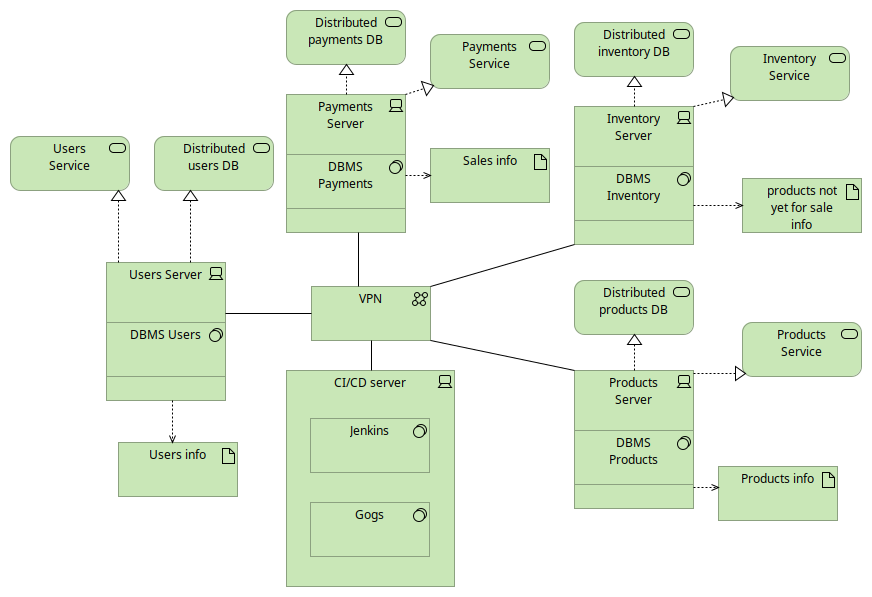
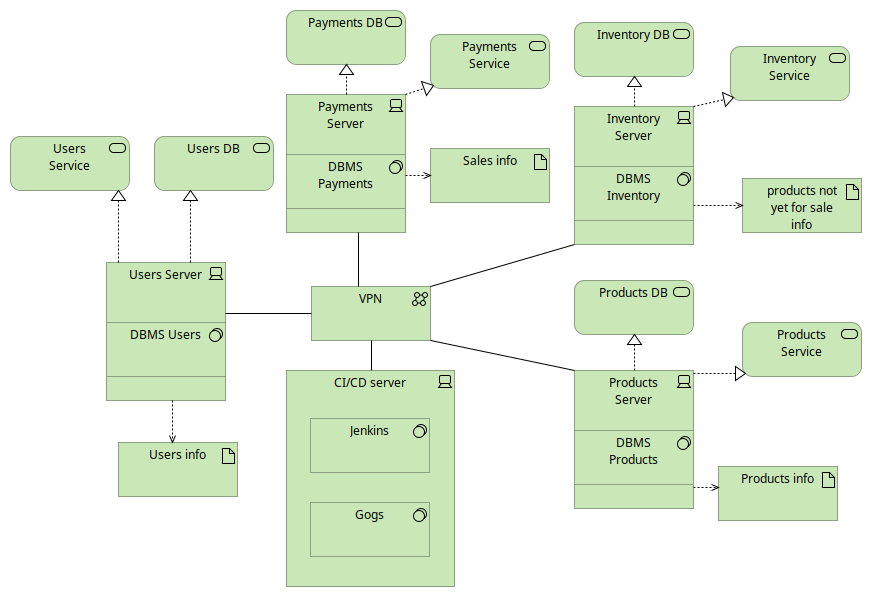
Updated technology diagram

diff --git a/docs/id-d368de90061745a0a55d6dbefd5c1f02/views/id-fb0f6b37ce094c0bb0f12bcb97d1abbc.html b/docs/id-d368de90061745a0a55d6dbefd5c1f02/views/id-fb0f6b37ce094c0bb0f12bcb97d1abbc.html
@@ -134,25 +134,25 @@
 								</thead>
 								<tbody>
 											<tr>
-											    <td> <a href="../elements/id-c4b7b984541c4d78820719a7bb337214.html" target="element"> Distributed users DB </a> </td>
+											    <td> <a href="../elements/id-c4b7b984541c4d78820719a7bb337214.html" target="element"> Users DB </a> </td>
 											    <td> <a href="../elements/id-c4b7b984541c4d78820719a7bb337214.html" target="element" class="i18n-elementtype-TechnologyService">
 											    </a> </td>
 											</tr>
 
 											<tr>
-											    <td> <a href="../elements/id-ef810acdd97d4ecfb8bd9ea44f85ec52.html" target="element"> Distributed inventory DB </a> </td>
+											    <td> <a href="../elements/id-ef810acdd97d4ecfb8bd9ea44f85ec52.html" target="element"> Inventory DB </a> </td>
 											    <td> <a href="../elements/id-ef810acdd97d4ecfb8bd9ea44f85ec52.html" target="element" class="i18n-elementtype-TechnologyService">
 											    </a> </td>
 											</tr>
 
 											<tr>
-											    <td> <a href="../elements/id-6470dc20a7684e97a108ae6bd5e1f054.html" target="element"> Distributed products DB </a> </td>
+											    <td> <a href="../elements/id-6470dc20a7684e97a108ae6bd5e1f054.html" target="element"> Products DB </a> </td>
 											    <td> <a href="../elements/id-6470dc20a7684e97a108ae6bd5e1f054.html" target="element" class="i18n-elementtype-TechnologyService">
 											    </a> </td>
 											</tr>
 
 											<tr>
-											    <td> <a href="../elements/id-b44bae4bed334a828d0a3b422e0b7b34.html" target="element"> Distributed payments DB </a> </td>
+											    <td> <a href="../elements/id-b44bae4bed334a828d0a3b422e0b7b34.html" target="element"> Payments DB </a> </td>
 											    <td> <a href="../elements/id-b44bae4bed334a828d0a3b422e0b7b34.html" target="element" class="i18n-elementtype-TechnologyService">
 											    </a> </td>
 											</tr>
@@ -332,7 +332,7 @@
 																		<td> <a href="../elements/id-17c3b16462d8463ead75834e3b87d13e.html" target="element" class="i18n-elementtype-RealizationRelationship">
 																		</a> </td>
 																		<td> <a href="../elements/id-fe1481a8c09548758c9c411a824368a4.html" target="element"> Users Server </a> </td>
-																		<td> <a href="../elements/id-c4b7b984541c4d78820719a7bb337214.html" target="element"> Distributed users DB </a> </td>
+																		<td> <a href="../elements/id-c4b7b984541c4d78820719a7bb337214.html" target="element"> Users DB </a> </td>
 																	</tr>
 																	<tr>
 																		<td> <a href="../elements/id-50d3e5f3586b47dcb8fcad8a446c1d69.html" target="element">  </a> </td>
@@ -369,7 +369,7 @@
 																		<td> <a href="../elements/id-b2b01f60740747bd85adea20a1baeb75.html" target="element" class="i18n-elementtype-RealizationRelationship">
 																		</a> </td>
 																		<td> <a href="../elements/id-46fcafef482443bcba7d1dde86820a65.html" target="element"> Payments Server </a> </td>
-																		<td> <a href="../elements/id-b44bae4bed334a828d0a3b422e0b7b34.html" target="element"> Distributed payments DB </a> </td>
+																		<td> <a href="../elements/id-b44bae4bed334a828d0a3b422e0b7b34.html" target="element"> Payments DB </a> </td>
 																	</tr>
 																	<tr>
 																		<td> <a href="../elements/id-ba8649569069472aaa1c2c51c07e7b33.html" target="element">  </a> </td>
@@ -406,7 +406,7 @@
 																		<td> <a href="../elements/id-bb360898177a4f7d9a7eb9d7f78a7539.html" target="element" class="i18n-elementtype-RealizationRelationship">
 																		</a> </td>
 																		<td> <a href="../elements/id-5813170a65c740ce9f1df0de7f656158.html" target="element"> Inventory Server </a> </td>
-																		<td> <a href="../elements/id-ef810acdd97d4ecfb8bd9ea44f85ec52.html" target="element"> Distributed inventory DB </a> </td>
+																		<td> <a href="../elements/id-ef810acdd97d4ecfb8bd9ea44f85ec52.html" target="element"> Inventory DB </a> </td>
 																	</tr>
 																	<tr>
 																		<td> <a href="../elements/id-e1dd2fe15c2d4b2c8739ee2ecf1034af.html" target="element">  </a> </td>
@@ -443,7 +443,7 @@
 																		<td> <a href="../elements/id-7a0c8788453042cf93077bb176f6c617.html" target="element" class="i18n-elementtype-RealizationRelationship">
 																		</a> </td>
 																		<td> <a href="../elements/id-eab8791a39e24c3ab4b1e69b8258a415.html" target="element"> Products Server </a> </td>
-																		<td> <a href="../elements/id-6470dc20a7684e97a108ae6bd5e1f054.html" target="element"> Distributed products DB </a> </td>
+																		<td> <a href="../elements/id-6470dc20a7684e97a108ae6bd5e1f054.html" target="element"> Products DB </a> </td>
 																	</tr>
 																	<tr>
 																		<td> <a href="../elements/id-af3568edd48b4feab42cf8e212c2ff42.html" target="element">  </a> </td>

diff --git a/docs/index.html b/docs/index.html
@@ -126,10 +126,10 @@
 								</li>
 								<li class="tree-folder "><span class="i18n-technology_layer"><i class="glyphicon glyphicon-triangle-right"></i> </span>
 									<ul>
-													<li class="tree-element "><a href="id-d368de90061745a0a55d6dbefd5c1f02/elements/id-c4b7b984541c4d78820719a7bb337214.html" target="element"> Distributed users DB </a></li>
-													<li class="tree-element "><a href="id-d368de90061745a0a55d6dbefd5c1f02/elements/id-ef810acdd97d4ecfb8bd9ea44f85ec52.html" target="element"> Distributed inventory DB </a></li>
-													<li class="tree-element "><a href="id-d368de90061745a0a55d6dbefd5c1f02/elements/id-6470dc20a7684e97a108ae6bd5e1f054.html" target="element"> Distributed products DB </a></li>
-													<li class="tree-element "><a href="id-d368de90061745a0a55d6dbefd5c1f02/elements/id-b44bae4bed334a828d0a3b422e0b7b34.html" target="element"> Distributed payments DB </a></li>
+													<li class="tree-element "><a href="id-d368de90061745a0a55d6dbefd5c1f02/elements/id-c4b7b984541c4d78820719a7bb337214.html" target="element"> Users DB </a></li>
+													<li class="tree-element "><a href="id-d368de90061745a0a55d6dbefd5c1f02/elements/id-ef810acdd97d4ecfb8bd9ea44f85ec52.html" target="element"> Inventory DB </a></li>
+													<li class="tree-element "><a href="id-d368de90061745a0a55d6dbefd5c1f02/elements/id-6470dc20a7684e97a108ae6bd5e1f054.html" target="element"> Products DB </a></li>
+													<li class="tree-element "><a href="id-d368de90061745a0a55d6dbefd5c1f02/elements/id-b44bae4bed334a828d0a3b422e0b7b34.html" target="element"> Payments DB </a></li>
 													<li class="tree-element "><a href="id-d368de90061745a0a55d6dbefd5c1f02/elements/id-ae5f1a77e48f4b24928ccfb465bfa14d.html" target="element"> VPN </a></li>
 													<li class="tree-element "><a href="id-d368de90061745a0a55d6dbefd5c1f02/elements/id-65e53eef2d1947c6b34030fb844b8b97.html" target="element"> Products info </a></li>
 													<li class="tree-element "><a href="id-d368de90061745a0a55d6dbefd5c1f02/elements/id-26b26446b9b546ab8ea4dee821c34edd.html" target="element"> products not yet for sale info </a></li>
@@ -289,7 +289,7 @@
 													</a></li>
 													<li class="tree-element "><a href="id-d368de90061745a0a55d6dbefd5c1f02/elements/id-17c3b16462d8463ead75834e3b87d13e.html" target="element">
 															<span class="i18n-elementtype-RealizationRelationship"></span>
-														(Users Server - Distributed users DB) 
+														(Users Server - Users DB) 
 													</a></li>
 													<li class="tree-element "><a href="id-d368de90061745a0a55d6dbefd5c1f02/elements/id-12c977b55eae4fb1878d33fa3a336fc3.html" target="element">
 															<span class="i18n-elementtype-AggregationRelationship"></span>
@@ -297,7 +297,7 @@
 													</a></li>
 													<li class="tree-element "><a href="id-d368de90061745a0a55d6dbefd5c1f02/elements/id-b2b01f60740747bd85adea20a1baeb75.html" target="element">
 															<span class="i18n-elementtype-RealizationRelationship"></span>
-														(Payments Server - Distributed payments DB) 
+														(Payments Server - Payments DB) 
 													</a></li>
 													<li class="tree-element "><a href="id-d368de90061745a0a55d6dbefd5c1f02/elements/id-3f7833cd1b854e34b128403f3266b393.html" target="element">
 															<span class="i18n-elementtype-AggregationRelationship"></span>
@@ -305,7 +305,7 @@
 													</a></li>
 													<li class="tree-element "><a href="id-d368de90061745a0a55d6dbefd5c1f02/elements/id-bb360898177a4f7d9a7eb9d7f78a7539.html" target="element">
 															<span class="i18n-elementtype-RealizationRelationship"></span>
-														(Inventory Server - Distributed inventory DB) 
+														(Inventory Server - Inventory DB) 
 													</a></li>
 													<li class="tree-element "><a href="id-d368de90061745a0a55d6dbefd5c1f02/elements/id-79c47f08807242bcac579ae26ff38ca9.html" target="element">
 															<span class="i18n-elementtype-AggregationRelationship"></span>
@@ -313,7 +313,7 @@
 													</a></li>
 													<li class="tree-element "><a href="id-d368de90061745a0a55d6dbefd5c1f02/elements/id-7a0c8788453042cf93077bb176f6c617.html" target="element">
 															<span class="i18n-elementtype-RealizationRelationship"></span>
-														(Products Server - Distributed products DB) 
+														(Products Server - Products DB) 
 													</a></li>
 													<li class="tree-element "><a href="id-d368de90061745a0a55d6dbefd5c1f02/elements/id-50d3e5f3586b47dcb8fcad8a446c1d69.html" target="element">
 															<span class="i18n-elementtype-AssociationRelationship"></span>

diff --git a/docs/id-d368de90061745a0a55d6dbefd5c1f02/elements/model.html b/docs/id-d368de90061745a0a55d6dbefd5c1f02/elements/model.html
@@ -256,13 +256,13 @@
 								dataFoldersContent.push({folderid:"id-d368de90061745a0a55d6dbefd5c1f02", contentid:"id-5bb73f7df95d4256b2c1dcd1e1ec1751", contenttype:"Folder"});
 								dataFolders.push({id:"id-5bb73f7df95d4256b2c1dcd1e1ec1751", type:"Folder", name:decodeURL("Technology+%26+Physical"), documentation:decodeURL("")});
 									dataFoldersContent.push({folderid:"id-5bb73f7df95d4256b2c1dcd1e1ec1751", contentid:"id-c4b7b984541c4d78820719a7bb337214", contenttype:"TechnologyService"});
-										dataElements.push({id:"id-c4b7b984541c4d78820719a7bb337214", type:"TechnologyService", specialization:decodeURL(""), name:decodeURL("Distributed+users+DB"), documentation:decodeURL("")});
+										dataElements.push({id:"id-c4b7b984541c4d78820719a7bb337214", type:"TechnologyService", specialization:decodeURL(""), name:decodeURL("Users+DB"), documentation:decodeURL("")});
 									dataFoldersContent.push({folderid:"id-5bb73f7df95d4256b2c1dcd1e1ec1751", contentid:"id-ef810acdd97d4ecfb8bd9ea44f85ec52", contenttype:"TechnologyService"});
-										dataElements.push({id:"id-ef810acdd97d4ecfb8bd9ea44f85ec52", type:"TechnologyService", specialization:decodeURL(""), name:decodeURL("Distributed+inventory+DB"), documentation:decodeURL("")});
+										dataElements.push({id:"id-ef810acdd97d4ecfb8bd9ea44f85ec52", type:"TechnologyService", specialization:decodeURL(""), name:decodeURL("Inventory+DB"), documentation:decodeURL("")});
 									dataFoldersContent.push({folderid:"id-5bb73f7df95d4256b2c1dcd1e1ec1751", contentid:"id-6470dc20a7684e97a108ae6bd5e1f054", contenttype:"TechnologyService"});
-										dataElements.push({id:"id-6470dc20a7684e97a108ae6bd5e1f054", type:"TechnologyService", specialization:decodeURL(""), name:decodeURL("Distributed+products+DB"), documentation:decodeURL("")});
+										dataElements.push({id:"id-6470dc20a7684e97a108ae6bd5e1f054", type:"TechnologyService", specialization:decodeURL(""), name:decodeURL("Products+DB"), documentation:decodeURL("")});
 									dataFoldersContent.push({folderid:"id-5bb73f7df95d4256b2c1dcd1e1ec1751", contentid:"id-b44bae4bed334a828d0a3b422e0b7b34", contenttype:"TechnologyService"});
-										dataElements.push({id:"id-b44bae4bed334a828d0a3b422e0b7b34", type:"TechnologyService", specialization:decodeURL(""), name:decodeURL("Distributed+payments+DB"), documentation:decodeURL("")});
+										dataElements.push({id:"id-b44bae4bed334a828d0a3b422e0b7b34", type:"TechnologyService", specialization:decodeURL(""), name:decodeURL("Payments+DB"), documentation:decodeURL("")});
 									dataFoldersContent.push({folderid:"id-5bb73f7df95d4256b2c1dcd1e1ec1751", contentid:"id-ae5f1a77e48f4b24928ccfb465bfa14d", contenttype:"CommunicationNetwork"});
 										dataElements.push({id:"id-ae5f1a77e48f4b24928ccfb465bfa14d", type:"CommunicationNetwork", specialization:decodeURL(""), name:decodeURL("VPN"), documentation:decodeURL("")});
 									dataFoldersContent.push({folderid:"id-5bb73f7df95d4256b2c1dcd1e1ec1751", contentid:"id-65e53eef2d1947c6b34030fb844b8b97", contenttype:"Artifact"});

diff --git a/docs/id-d368de90061745a0a55d6dbefd5c1f02/elements/id-4e6c3eaca1c547f9b8af2760c3d13e39.html b/docs/id-d368de90061745a0a55d6dbefd5c1f02/elements/id-4e6c3eaca1c547f9b8af2760c3d13e39.html
@@ -72,14 +72,14 @@
 								</tr>
 							</thead>
 							<tbody>
-								<tr id="used-in-views-id-aaf5eab68af541fca9236709edda6cd3">
-																	<td><a href="../views/id-aaf5eab68af541fca9236709edda6cd3.html" target="view" title="Application register product"> Application register product </a></td>
-																	<td><span class="i18n-viewpoint-" /></td>
-																</tr><tr id="used-in-views-id-cdf1caffac5b4c7da366c17392b31992">
+								<tr id="used-in-views-id-cdf1caffac5b4c7da366c17392b31992">
 																	<td><a href="../views/id-cdf1caffac5b4c7da366c17392b31992.html" target="view" title="Application register seller"> Application register seller </a></td>
 																	<td><span class="i18n-viewpoint-" /></td>
 																</tr><tr id="used-in-views-id-3c18ad6b56a54c4db1f235508b24b83d">
 																	<td><a href="../views/id-3c18ad6b56a54c4db1f235508b24b83d.html" target="view" title="Application buying products"> Application buying products </a></td>
+																	<td><span class="i18n-viewpoint-" /></td>
+																</tr><tr id="used-in-views-id-aaf5eab68af541fca9236709edda6cd3">
+																	<td><a href="../views/id-aaf5eab68af541fca9236709edda6cd3.html" target="view" title="Application register product"> Application register product </a></td>
 																	<td><span class="i18n-viewpoint-" /></td>
 																</tr>
 							</tbody>

diff --git a/docs/id-d368de90061745a0a55d6dbefd5c1f02/elements/id-2470f8759df940cf826459df5554c00d.html b/docs/id-d368de90061745a0a55d6dbefd5c1f02/elements/id-2470f8759df940cf826459df5554c00d.html
@@ -75,11 +75,11 @@
 								<tr id="used-in-views-id-3e04fa337a5f4f82b5785e3b2d3fe282">
 																	<td><a href="../views/id-3e04fa337a5f4f82b5785e3b2d3fe282.html" target="view" title="Business register products"> Business register products </a></td>
 																	<td><span class="i18n-viewpoint-" /></td>
-																</tr><tr id="used-in-views-id-84743b355f024eaf981d2442648c64a2">
-																	<td><a href="../views/id-84743b355f024eaf981d2442648c64a2.html" target="view" title="Business buying products"> Business buying products </a></td>
-																	<td><span class="i18n-viewpoint-" /></td>
 																</tr><tr id="used-in-views-id-673d815e0f8b42bc9ee376ed13a4d5f7">
 																	<td><a href="../views/id-673d815e0f8b42bc9ee376ed13a4d5f7.html" target="view" title="Business new seller"> Business new seller </a></td>
+																	<td><span class="i18n-viewpoint-" /></td>
+																</tr><tr id="used-in-views-id-84743b355f024eaf981d2442648c64a2">
+																	<td><a href="../views/id-84743b355f024eaf981d2442648c64a2.html" target="view" title="Business buying products"> Business buying products </a></td>
 																	<td><span class="i18n-viewpoint-" /></td>
 																</tr>
 							</tbody>

diff --git a/docs/id-d368de90061745a0a55d6dbefd5c1f02/elements/id-ef810acdd97d4ecfb8bd9ea44f85ec52.html b/docs/id-d368de90061745a0a55d6dbefd5c1f02/elements/id-ef810acdd97d4ecfb8bd9ea44f85ec52.html
@@ -2,7 +2,7 @@
 <html class="frame" lang="en">
 <head>
 	<meta http-equiv="Content-Type" content="text/html;charset=utf-8">
-	<title>Distributed inventory DB</title>
+	<title>Inventory DB</title>
 
 	<!-- JQUERY -->
 	<script type="text/javascript" src="../../lib/jquery/jquery.min.js"></script>
@@ -21,7 +21,7 @@
 
 		<div class="panel-heading root-panel-heading">
             <!-- Name -->
-               <b>Distributed inventory DB</b>
+               <b>Inventory DB</b>
 
             <!-- If a View with Viewpoint -->
 			   (<span class="i18n-elementtype-TechnologyService"></span>)
@@ -93,7 +93,7 @@
 											<td><a href="../elements/id-bb360898177a4f7d9a7eb9d7f78a7539.html" target="element" title=""></a></td>
 											<td><span class="i18n-elementtype-RealizationRelationship" /></td>
 											<td><a href="../elements/id-5813170a65c740ce9f1df0de7f656158.html" target="element"> Inventory Server</a></td>
-											<td><a href="../elements/id-ef810acdd97d4ecfb8bd9ea44f85ec52.html" target="element"> Distributed inventory DB</a></td>
+											<td><a href="../elements/id-ef810acdd97d4ecfb8bd9ea44f85ec52.html" target="element"> Inventory DB</a></td>
 										</tr>
 							</tbody>
 						</table>

diff --git a/docs/id-d368de90061745a0a55d6dbefd5c1f02/elements/id-6470dc20a7684e97a108ae6bd5e1f054.html b/docs/id-d368de90061745a0a55d6dbefd5c1f02/elements/id-6470dc20a7684e97a108ae6bd5e1f054.html
@@ -2,7 +2,7 @@
 <html class="frame" lang="en">
 <head>
 	<meta http-equiv="Content-Type" content="text/html;charset=utf-8">
-	<title>Distributed products DB</title>
+	<title>Products DB</title>
 
 	<!-- JQUERY -->
 	<script type="text/javascript" src="../../lib/jquery/jquery.min.js"></script>
@@ -21,7 +21,7 @@
 
 		<div class="panel-heading root-panel-heading">
             <!-- Name -->
-               <b>Distributed products DB</b>
+               <b>Products DB</b>
 
             <!-- If a View with Viewpoint -->
 			   (<span class="i18n-elementtype-TechnologyService"></span>)
@@ -93,7 +93,7 @@
 											<td><a href="../elements/id-7a0c8788453042cf93077bb176f6c617.html" target="element" title=""></a></td>
 											<td><span class="i18n-elementtype-RealizationRelationship" /></td>
 											<td><a href="../elements/id-eab8791a39e24c3ab4b1e69b8258a415.html" target="element"> Products Server</a></td>
-											<td><a href="../elements/id-6470dc20a7684e97a108ae6bd5e1f054.html" target="element"> Distributed products DB</a></td>
+											<td><a href="../elements/id-6470dc20a7684e97a108ae6bd5e1f054.html" target="element"> Products DB</a></td>
 										</tr>
 							</tbody>
 						</table>

diff --git a/docs/id-d368de90061745a0a55d6dbefd5c1f02/elements/id-b44bae4bed334a828d0a3b422e0b7b34.html b/docs/id-d368de90061745a0a55d6dbefd5c1f02/elements/id-b44bae4bed334a828d0a3b422e0b7b34.html
@@ -2,7 +2,7 @@
 <html class="frame" lang="en">
 <head>
 	<meta http-equiv="Content-Type" content="text/html;charset=utf-8">
-	<title>Distributed payments DB</title>
+	<title>Payments DB</title>
 
 	<!-- JQUERY -->
 	<script type="text/javascript" src="../../lib/jquery/jquery.min.js"></script>
@@ -21,7 +21,7 @@
 
 		<div class="panel-heading root-panel-heading">
             <!-- Name -->
-               <b>Distributed payments DB</b>
+               <b>Payments DB</b>
 
             <!-- If a View with Viewpoint -->
 			   (<span class="i18n-elementtype-TechnologyService"></span>)
@@ -93,7 +93,7 @@
 											<td><a href="../elements/id-b2b01f60740747bd85adea20a1baeb75.html" target="element" title=""></a></td>
 											<td><span class="i18n-elementtype-RealizationRelationship" /></td>
 											<td><a href="../elements/id-46fcafef482443bcba7d1dde86820a65.html" target="element"> Payments Server</a></td>
-											<td><a href="../elements/id-b44bae4bed334a828d0a3b422e0b7b34.html" target="element"> Distributed payments DB</a></td>
+											<td><a href="../elements/id-b44bae4bed334a828d0a3b422e0b7b34.html" target="element"> Payments DB</a></td>
 										</tr>
 							</tbody>
 						</table>

diff --git a/docs/id-d368de90061745a0a55d6dbefd5c1f02/elements/id-c4b7b984541c4d78820719a7bb337214.html b/docs/id-d368de90061745a0a55d6dbefd5c1f02/elements/id-c4b7b984541c4d78820719a7bb337214.html
@@ -2,7 +2,7 @@
 <html class="frame" lang="en">
 <head>
 	<meta http-equiv="Content-Type" content="text/html;charset=utf-8">
-	<title>Distributed users DB</title>
+	<title>Users DB</title>
 
 	<!-- JQUERY -->
 	<script type="text/javascript" src="../../lib/jquery/jquery.min.js"></script>
@@ -21,7 +21,7 @@
 
 		<div class="panel-heading root-panel-heading">
             <!-- Name -->
-               <b>Distributed users DB</b>
+               <b>Users DB</b>
 
             <!-- If a View with Viewpoint -->
 			   (<span class="i18n-elementtype-TechnologyService"></span>)
@@ -93,7 +93,7 @@
 											<td><a href="../elements/id-17c3b16462d8463ead75834e3b87d13e.html" target="element" title=""></a></td>
 											<td><span class="i18n-elementtype-RealizationRelationship" /></td>
 											<td><a href="../elements/id-fe1481a8c09548758c9c411a824368a4.html" target="element"> Users Server</a></td>
-											<td><a href="../elements/id-c4b7b984541c4d78820719a7bb337214.html" target="element"> Distributed users DB</a></td>
+											<td><a href="../elements/id-c4b7b984541c4d78820719a7bb337214.html" target="element"> Users DB</a></td>
 										</tr>
 							</tbody>
 						</table>

diff --git a/docs/id-d368de90061745a0a55d6dbefd5c1f02/elements/id-1b496e4799dd4750ac68976b52a4fb22.html b/docs/id-d368de90061745a0a55d6dbefd5c1f02/elements/id-1b496e4799dd4750ac68976b52a4fb22.html
@@ -72,11 +72,11 @@
 								</tr>
 							</thead>
 							<tbody>
-								<tr id="used-in-views-id-3e04fa337a5f4f82b5785e3b2d3fe282">
-																	<td><a href="../views/id-3e04fa337a5f4f82b5785e3b2d3fe282.html" target="view" title="Business register products"> Business register products </a></td>
-																	<td><span class="i18n-viewpoint-" /></td>
-																</tr><tr id="used-in-views-id-84743b355f024eaf981d2442648c64a2">
+								<tr id="used-in-views-id-84743b355f024eaf981d2442648c64a2">
 																	<td><a href="../views/id-84743b355f024eaf981d2442648c64a2.html" target="view" title="Business buying products"> Business buying products </a></td>
+																	<td><span class="i18n-viewpoint-" /></td>
+																</tr><tr id="used-in-views-id-3e04fa337a5f4f82b5785e3b2d3fe282">
+																	<td><a href="../views/id-3e04fa337a5f4f82b5785e3b2d3fe282.html" target="view" title="Business register products"> Business register products </a></td>
 																	<td><span class="i18n-viewpoint-" /></td>
 																</tr>
 							</tbody>

diff --git a/docs/id-d368de90061745a0a55d6dbefd5c1f02/elements/id-e75b9af8402a4b65b5689af3e0b1802b.html b/docs/id-d368de90061745a0a55d6dbefd5c1f02/elements/id-e75b9af8402a4b65b5689af3e0b1802b.html
@@ -72,11 +72,11 @@
 								</tr>
 							</thead>
 							<tbody>
-								<tr id="used-in-views-id-3e04fa337a5f4f82b5785e3b2d3fe282">
-																	<td><a href="../views/id-3e04fa337a5f4f82b5785e3b2d3fe282.html" target="view" title="Business register products"> Business register products </a></td>
-																	<td><span class="i18n-viewpoint-" /></td>
-																</tr><tr id="used-in-views-id-673d815e0f8b42bc9ee376ed13a4d5f7">
+								<tr id="used-in-views-id-673d815e0f8b42bc9ee376ed13a4d5f7">
 																	<td><a href="../views/id-673d815e0f8b42bc9ee376ed13a4d5f7.html" target="view" title="Business new seller"> Business new seller </a></td>
+																	<td><span class="i18n-viewpoint-" /></td>
+																</tr><tr id="used-in-views-id-3e04fa337a5f4f82b5785e3b2d3fe282">
+																	<td><a href="../views/id-3e04fa337a5f4f82b5785e3b2d3fe282.html" target="view" title="Business register products"> Business register products </a></td>
 																	<td><span class="i18n-viewpoint-" /></td>
 																</tr>
 							</tbody>

diff --git a/docs/id-d368de90061745a0a55d6dbefd5c1f02/elements/id-5813170a65c740ce9f1df0de7f656158.html b/docs/id-d368de90061745a0a55d6dbefd5c1f02/elements/id-5813170a65c740ce9f1df0de7f656158.html
@@ -98,7 +98,7 @@
 											<td><a href="../elements/id-bb360898177a4f7d9a7eb9d7f78a7539.html" target="element" title=""></a></td>
 											<td><span class="i18n-elementtype-RealizationRelationship" /></td>
 											<td><a href="../elements/id-5813170a65c740ce9f1df0de7f656158.html" target="element"> Inventory Server</a></td>
-											<td><a href="../elements/id-ef810acdd97d4ecfb8bd9ea44f85ec52.html" target="element"> Distributed inventory DB</a></td>
+											<td><a href="../elements/id-ef810acdd97d4ecfb8bd9ea44f85ec52.html" target="element"> Inventory DB</a></td>
 										</tr><tr>
 											<td><a href="../elements/id-e1dd2fe15c2d4b2c8739ee2ecf1034af.html" target="element" title=""></a></td>
 											<td><span class="i18n-elementtype-AssociationRelationship" /></td>
